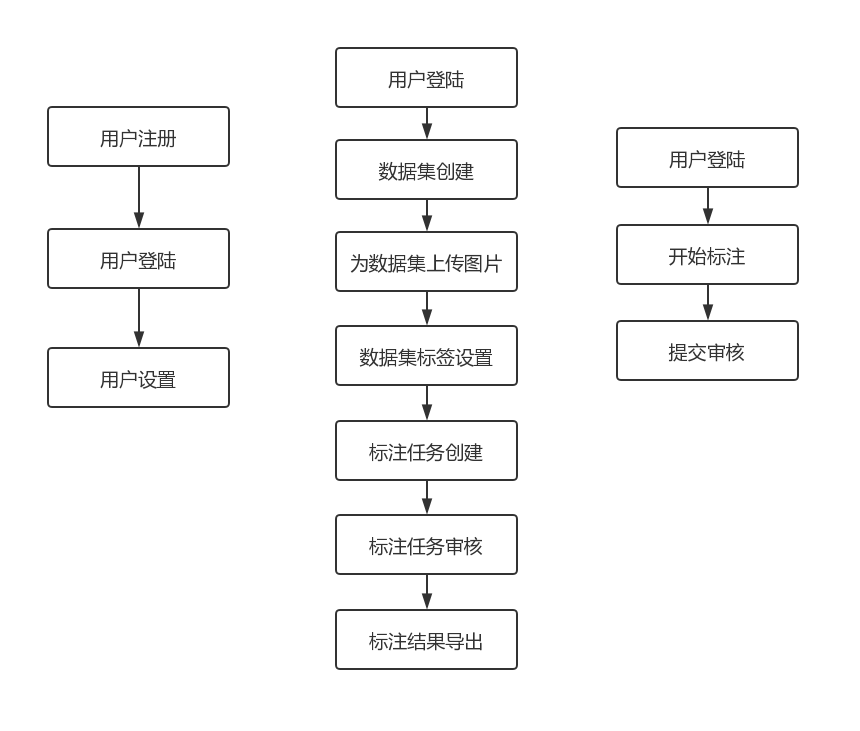
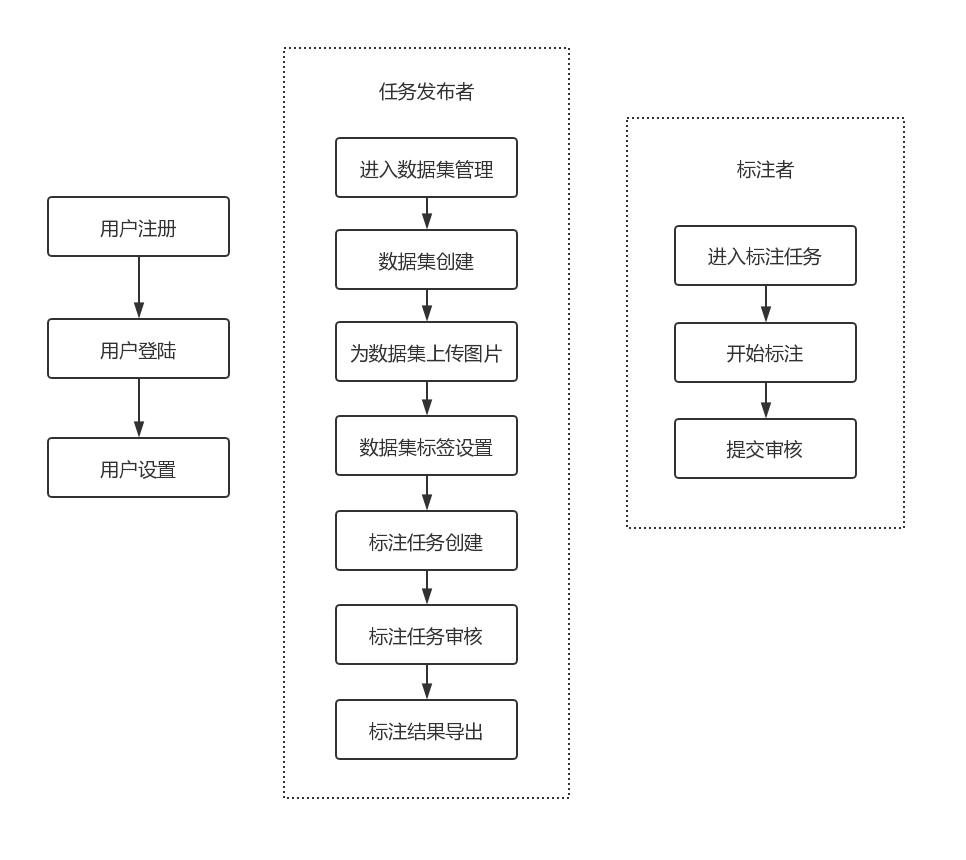
update

diff --git a/introduction.md b/introduction.md
@@ -3,6 +3,7 @@
 ## 1 系统框图
 ![标注系统.png](./imgs/标注系统.png)
 ## 2 使用流程
+每个人都有两种身份，一种为任务发布者，一种为标注者。任务发布者可以创建数据集，发布任务给其他人进行标注。标注者可以进入到标注任务中，在PC浏览器页面或手机微信小程序里进行标注（微信小程序中目前只能进行图片分类标注和图片上传任务）。
 ![使用流程.png](./imgs/使用流程.png)
 ### 2.1 用户注册与设置
 用户可以通过关注“晓图天下”微信公众号或者扫描别人分享的二维码注册该系统。二者的区别在于后者可以直接进入到相应的[群组](###-4.3-群组管理)中。
@@ -35,7 +36,7 @@
     图片选择
 
     图片删除
-    
+        
 ##### 3.1.1.3 标签管理
 - 添加标签组
 - 标签组管理
